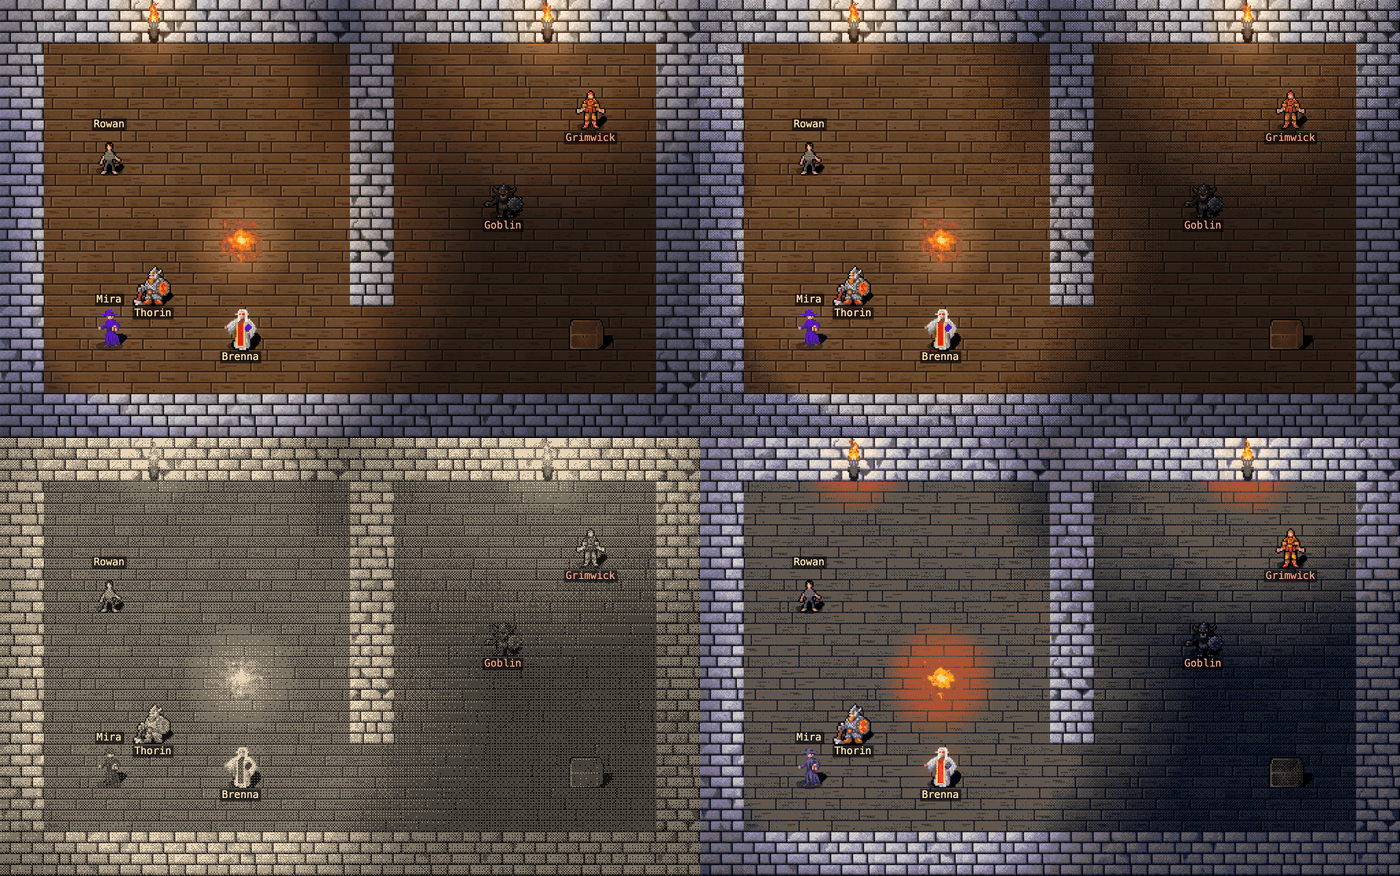
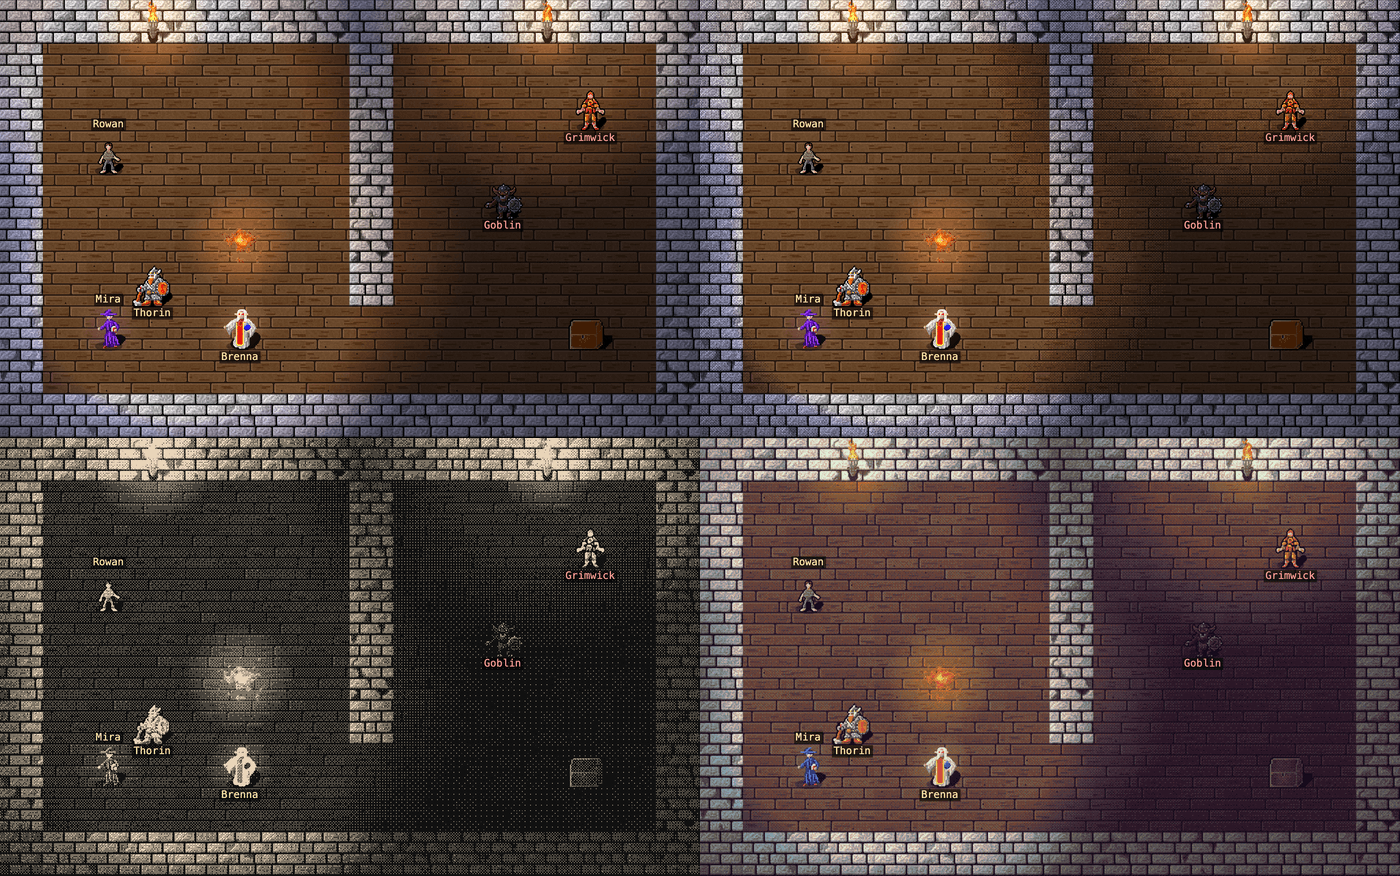
Make the duotone and palette looks readable

diff --git a/public/js/boardDither.js b/public/js/boardDither.js
@@ -3,7 +3,7 @@
 // bright areas shimmer.
 //   "dither-light": the light map is dithered between a few levels; art keeps its colour
 //   "duotone":      the whole lit board becomes ink and cream dots
-//   "palette":      the whole lit board is dithered to the 16 PICO-8 colours
+//   "palette":      the whole lit board is dithered to 16 colours (DawnBringer 16)
 import { Filter, GlProgram } from "/vendor/pixi.mjs";
 
 const DITHER_LOOKS = ["dither-light", "duotone", "palette"];
@@ -42,24 +42,40 @@ float noise(vec2 p) {
 float bayer2(vec2 a) { a = floor(a); return fract(dot(a, vec2(0.5, a.y * 0.75))); }
 float bayer8(vec2 a) { return bayer2(0.25 * a) * 0.0625 + bayer2(0.5 * a) * 0.25 + bayer2(a); }
 
-// The PICO-8 palette. A function, not an array: WebGL 1 has no array constructors.
-vec3 pico(int i) {
-  if (i == 0) return vec3(0.0);
-  if (i == 1) return vec3(0.114, 0.169, 0.325);
-  if (i == 2) return vec3(0.494, 0.145, 0.325);
-  if (i == 3) return vec3(0.0, 0.529, 0.318);
-  if (i == 4) return vec3(0.671, 0.322, 0.212);
-  if (i == 5) return vec3(0.373, 0.341, 0.310);
-  if (i == 6) return vec3(0.761, 0.765, 0.780);
-  if (i == 7) return vec3(1.0, 0.945, 0.910);
-  if (i == 8) return vec3(1.0, 0.0, 0.302);
-  if (i == 9) return vec3(1.0, 0.639, 0.0);
-  if (i == 10) return vec3(1.0, 0.925, 0.153);
-  if (i == 11) return vec3(0.0, 0.894, 0.212);
-  if (i == 12) return vec3(0.161, 0.678, 1.0);
-  if (i == 13) return vec3(0.514, 0.463, 0.612);
-  if (i == 14) return vec3(1.0, 0.467, 0.659);
-  return vec3(1.0, 0.8, 0.667);
+// DawnBringer's 16-colour palette, made for pixel art: it has the browns, ember
+// orange and muted greens of these tiles. A function, not an array: WebGL 1 has no
+// array constructors.
+vec3 palette(int i) {
+  if (i == 0) return vec3(0.078, 0.047, 0.110);
+  if (i == 1) return vec3(0.267, 0.141, 0.204);
+  if (i == 2) return vec3(0.188, 0.204, 0.427);
+  if (i == 3) return vec3(0.306, 0.290, 0.306);
+  if (i == 4) return vec3(0.522, 0.298, 0.188);
+  if (i == 5) return vec3(0.204, 0.396, 0.141);
+  if (i == 6) return vec3(0.816, 0.275, 0.282);
+  if (i == 7) return vec3(0.459, 0.443, 0.380);
+  if (i == 8) return vec3(0.349, 0.490, 0.808);
+  if (i == 9) return vec3(0.824, 0.490, 0.173);
+  if (i == 10) return vec3(0.522, 0.584, 0.631);
+  if (i == 11) return vec3(0.427, 0.667, 0.173);
+  if (i == 12) return vec3(0.824, 0.667, 0.600);
+  if (i == 13) return vec3(0.427, 0.761, 0.792);
+  if (i == 14) return vec3(0.855, 0.831, 0.369);
+  return vec3(0.871, 0.933, 0.839);
+}
+
+// Oklab: distances follow what the eye sees, so a brown matches brown, not grey.
+vec3 oklab(vec3 c) {
+  c = pow(c, vec3(2.2));
+  vec3 lms = vec3(
+    dot(c, vec3(0.4122214708, 0.5363325363, 0.0514459929)),
+    dot(c, vec3(0.2119034982, 0.6806995451, 0.1073969566)),
+    dot(c, vec3(0.0883024619, 0.2817188376, 0.6299787005)));
+  lms = pow(lms, vec3(1.0 / 3.0));
+  return vec3(
+    dot(lms, vec3(0.2104542553, 0.7936177850, -0.0040720468)),
+    dot(lms, vec3(1.9779984951, -2.4285922050, 0.4505937099)),
+    dot(lms, vec3(0.0259040371, 0.7827717662, -0.8086757660)));
 }
 
 void main() {
@@ -76,16 +92,17 @@ void main() {
     vec3 hue = color.rgb / max(max(color.r, max(color.g, color.b)), 0.001);
     finalColor = vec4(mix(uAmbient, hue, lit), 1.0);
   } else if (uLook < 1.5) {
-    float ink = step(threshold, pow(luma, 0.85) * 1.15);
+    // a contrast curve: dark ground is mostly ink, lit figures mostly cream
+    float ink = step(threshold, smoothstep(0.03, 0.6, luma));
     finalColor = vec4(mix(vec3(0.067), vec3(0.91, 0.835, 0.718), ink), color.a);
   } else {
-    vec3 target = color.rgb + (threshold - 0.5) * 0.22;
-    vec3 best = pico(0);
+    vec3 target = oklab(clamp(color.rgb + (threshold - 0.5) * 0.22, 0.0, 1.0));
+    vec3 best = palette(0);
     float bestDistance = 9.0;
     for (int i = 0; i < 16; i++) {
-      vec3 d = target - pico(i);
+      vec3 d = target - oklab(palette(i));
       float distance = dot(d, d);
-      if (distance < bestDistance) { bestDistance = distance; best = pico(i); }
+      if (distance < bestDistance) { bestDistance = distance; best = palette(i); }
     }
     finalColor = vec4(best, color.a);
   }

diff --git a/public/js/boardWebgl.js b/public/js/boardWebgl.js
@@ -108,6 +108,8 @@ export async function createWebglBoard(frame, catalog, { onSelectSprite, look, m
     lightSprite.blendMode = isLightOnly ? "normal" : "multiply"; // with the filter, the filter multiplies
     lightSprite.filters = isLightOnly ? [dither] : null;
     world.filters = dither && !isLightOnly ? [dither] : null;
+    // In two inks only brightness tells things apart, so the ground steps back behind the figures.
+    floor.tint = next === "duotone" ? 0x8c8c8c : 0xffffff;
   }
   setLook(look);
 
